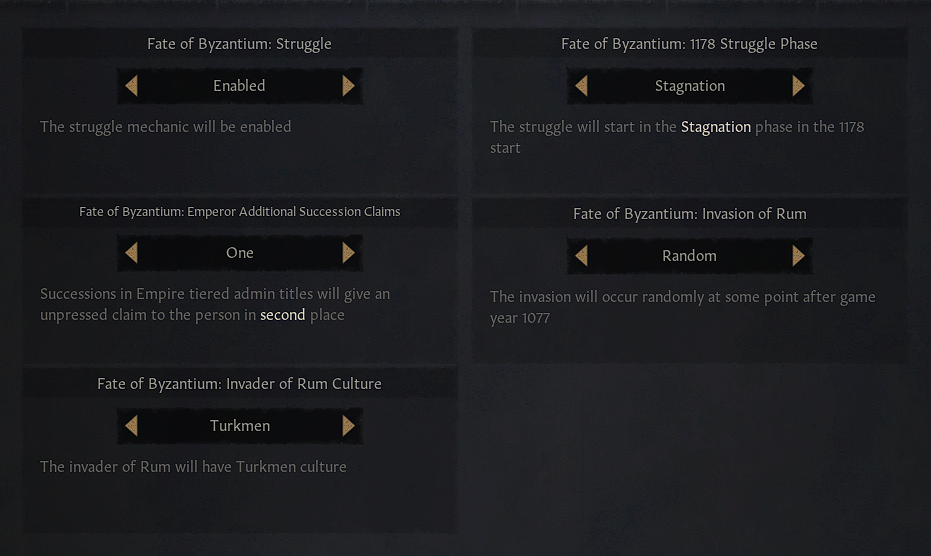
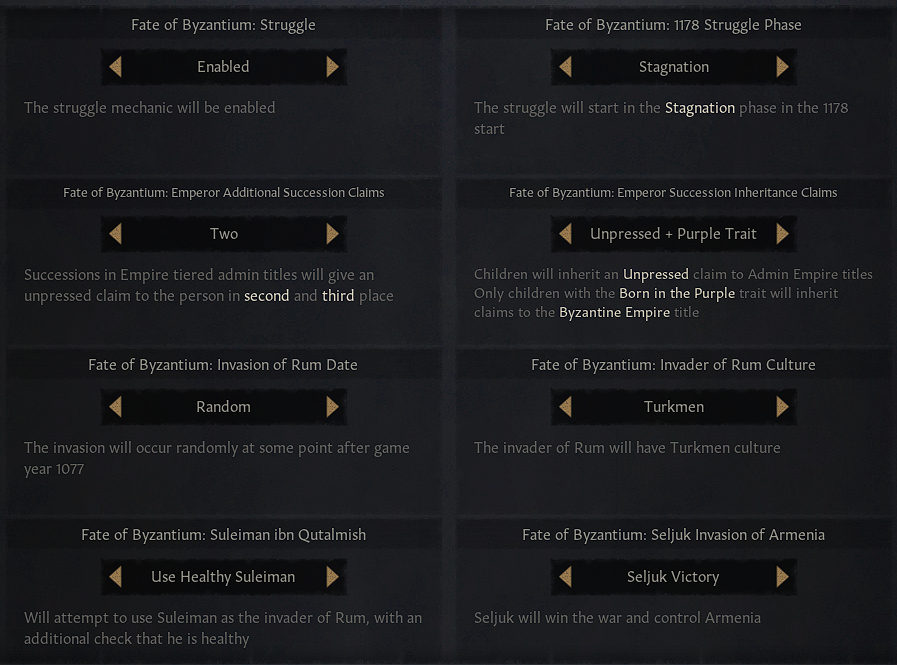
Final changes v2

diff --git a/README.md b/README.md
@@ -119,7 +119,7 @@ Below list all changes to Byzantium and the surrounding region that are independ
 * Score required to be a powerful house decreased to 35
 * Max number of powerful houses increased to 8
 * Base cost of hiring theme troops increased to 150 influence
-* AI will now estimate that an Admin realm can use 10% (down from 40%) of its total power when deciding to attack
+* AI will no longer over-estimate an Admin Government's military strength
 
 #### Demand Administrative Governance Interaction
 * Cultures who do not benefit from Admin governments are much less likely to accept
@@ -156,8 +156,9 @@ Below list all changes to Byzantium and the surrounding region that are independ
 * Children of the Emperor will now inherit an unpressed claim (configurable via game rules)
 * Children of the Byzantine Emperor now require the 'Born in the Purple' trait in order to inherit a claim (configurable via game rules) 
 
-#### Succession Appointment
-* The skill contribution for Emperor succession appointment has been reduced
+#### Emperor Succession Appointment
+* The skill contribution for Emperor succession appointment has been reduced (now matches the same contribution level as Governor succession appointment)
+* Add modifiers for having virtuous or sinful traits to the state faith
 
 #### Powerful Vassal Claim Event
 * New event that will periodically trigger on a random powerful vassal
